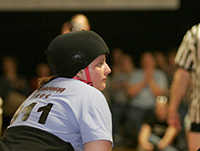
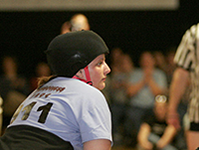
added crafty picture

diff --git a/index.html b/index.html
@@ -62,7 +62,7 @@
             <h3>Emily Stamey</h3>
             <p>Developer, Wife, and a Mom</p>
             <p>crafty, musical, retired Carolina Roller Girl</p>
-            <p><img src="img/derby_small.png"></p>
+            <p><img src="img/crafty.png"><img src="img/derby_small.png"></p>
             <aside class="notes">
                 <li>Hi, I'm Emily. </li>
             </aside>
